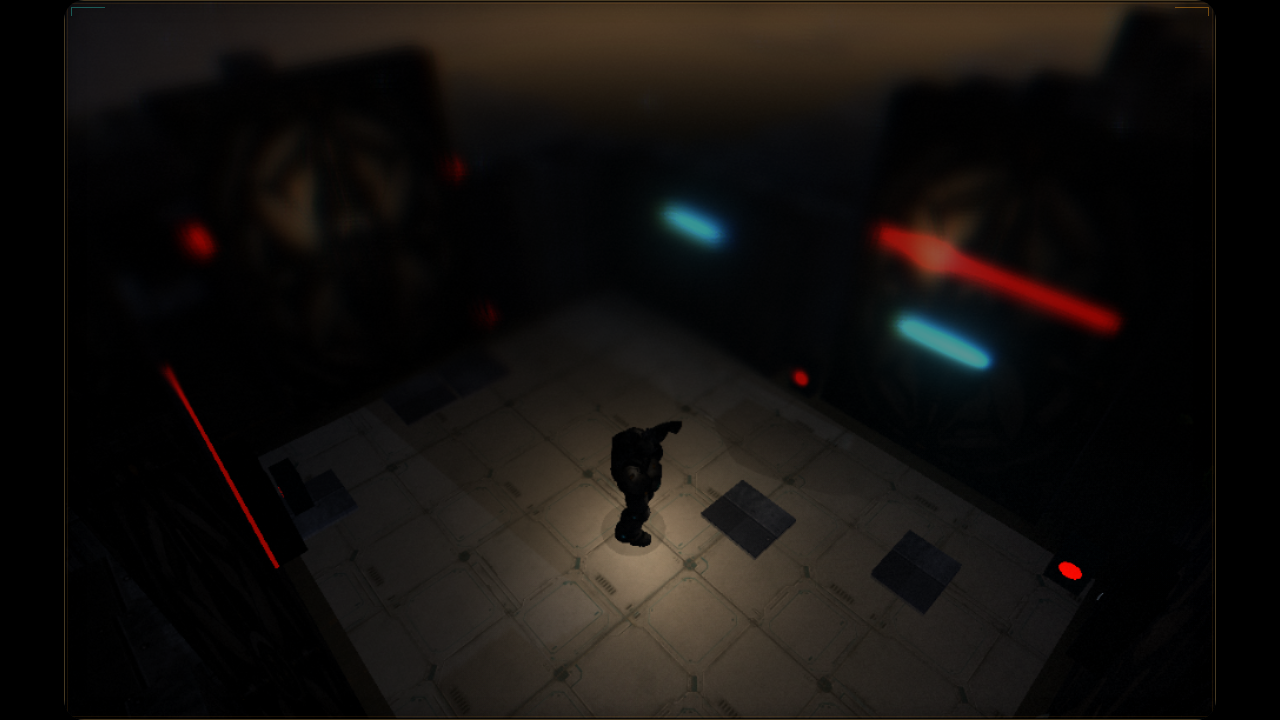
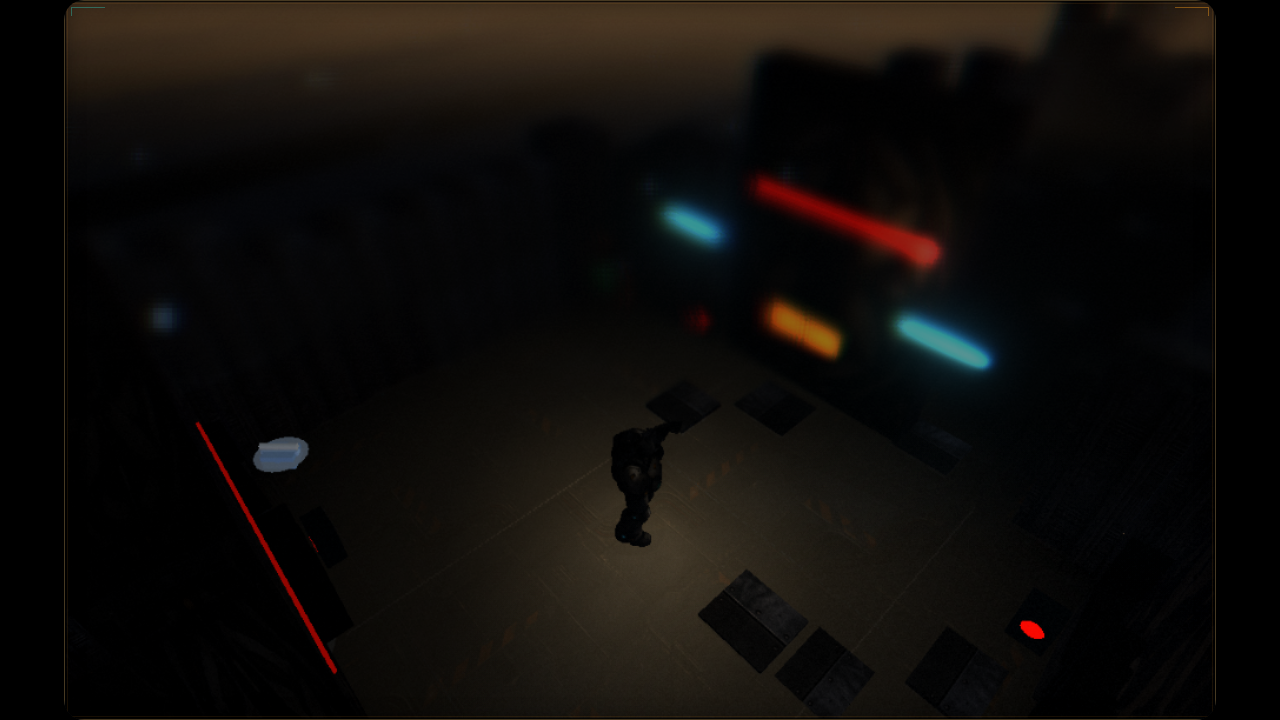
feat(world): identify procedural rooms by role

diff --git a/src/threeGame.js b/src/threeGame.js
@@ -17,6 +17,7 @@ import {
     planRoomBoundaryCells,
     planRoomCutawayCells,
     planRoomPracticalLights,
+    planRoomRoleDisplay,
     ROOM_CUTAWAY_HEIGHT
 } from './roomPresentation.js';
 
@@ -1745,6 +1746,18 @@ export class ThreeGame {
             emissiveIntensity: 0.08,
             metalness: 0.7,
             roughness: 0.34
+        });
+        this.roomRoleDisplayGeometry = new THREE.BoxGeometry(1, 1, 1);
+        this.roomRoleDisplayHousingMaterial = new THREE.MeshStandardMaterial({
+            color: 0x070b0f,
+            emissive: 0x010305,
+            emissiveIntensity: 0.08,
+            metalness: 0.88,
+            roughness: 0.3
+        });
+        this.roomRoleDisplayScreenMaterial = new THREE.MeshBasicMaterial({
+            color: new THREE.Color().setRGB(1.65, 1.65, 1.65),
+            toneMapped: false
         });
 
         this.ventMaterial = new THREE.MeshBasicMaterial({ color: 0x1a1d20 });
@@ -27552,6 +27565,81 @@ export class ThreeGame {
         }
     }
 
+    addRoomRoleDisplays(group, chunkX, chunkY, metadata) {
+        const rooms = metadata?.roomInstances ?? [];
+        if (!group || rooms.length === 0 || !this.roomRoleDisplayGeometry) return;
+        const centerX = chunkX * this.chunkSize + this.chunkSize * 0.5;
+        const centerZ = chunkY * this.chunkSize + this.chunkSize * 0.5;
+        const biome = this.getBiomeKeyForWorldPosition(centerX, centerZ);
+        const housings = [];
+        const screens = [];
+        const displayFamilies = new Set();
+        const rotation = new THREE.Quaternion();
+
+        for (const room of rooms) {
+            const plan = planRoomRoleDisplay(room, { biome });
+            if (!plan) continue;
+            displayFamilies.add(plan.family);
+            rotation.setFromEuler(new THREE.Euler(0, plan.rotationY, 0));
+            const worldX = chunkX * this.chunkSize + plan.x;
+            const worldZ = chunkY * this.chunkSize + plan.z;
+            housings.push(new THREE.Matrix4().compose(
+                new THREE.Vector3(worldX, 1.42, worldZ),
+                rotation,
+                new THREE.Vector3(plan.width, plan.height, 0.11)
+            ));
+            for (const screen of plan.screens) {
+                const screenX = worldX + (plan.wall === 'north' ? screen.offset : 0.065);
+                const screenZ = worldZ + (plan.wall === 'west' ? screen.offset : 0.065);
+                screens.push({
+                    color: screen.color,
+                    matrix: new THREE.Matrix4().compose(
+                        new THREE.Vector3(screenX, 1.42, screenZ),
+                        rotation,
+                        new THREE.Vector3(screen.width, screen.height, 0.035)
+                    )
+                });
+            }
+        }
+
+        if (housings.length > 0) {
+            const housingPool = new THREE.InstancedMesh(
+                this.roomRoleDisplayGeometry,
+                this.roomRoleDisplayHousingMaterial,
+                housings.length
+            );
+            housings.forEach((matrix, index) => housingPool.setMatrixAt(index, matrix));
+            housingPool.instanceMatrix.needsUpdate = true;
+            housingPool.receiveShadow = true;
+            housingPool.userData = {
+                isRoomRoleDisplayHousingPool: true,
+                housingCount: housings.length,
+                displayFamilies: [...displayFamilies]
+            };
+            group.add(housingPool);
+        }
+
+        if (screens.length > 0) {
+            const screenPool = new THREE.InstancedMesh(
+                this.roomRoleDisplayGeometry,
+                this.roomRoleDisplayScreenMaterial,
+                screens.length
+            );
+            screens.forEach((screen, index) => {
+                screenPool.setMatrixAt(index, screen.matrix);
+                screenPool.setColorAt(index, new THREE.Color(screen.color));
+            });
+            screenPool.instanceMatrix.needsUpdate = true;
+            screenPool.instanceColor.needsUpdate = true;
+            screenPool.userData = {
+                isRoomRoleDisplayScreenPool: true,
+                screenCount: screens.length,
+                displayFamilies: [...displayFamilies]
+            };
+            group.add(screenPool);
+        }
+    }
+
     addRoomSurfaceOverlays(group, chunkX, chunkY, metadata) {
         const rooms = metadata?.roomInstances ?? [];
         if (rooms.length === 0) return;
@@ -28879,6 +28967,12 @@ export class ThreeGame {
             this.wfcMetadataCache?.get(`${chunkX},${chunkY}`)
         );
         this.addRoomPracticalLighting(
+            group,
+            chunkX,
+            chunkY,
+            this.wfcMetadataCache?.get(`${chunkX},${chunkY}`)
+        );
+        this.addRoomRoleDisplays(
             group,
             chunkX,
             chunkY,
@@ -39432,6 +39526,9 @@ export class ThreeGame {
         for (const material of this.roomLightFixtureMaterials?.values?.() ?? []) material.dispose?.();
         this.roomCutawayCapGeometry?.dispose();
         this.roomCutawayCapMaterial?.dispose();
+        this.roomRoleDisplayGeometry?.dispose();
+        this.roomRoleDisplayHousingMaterial?.dispose();
+        this.roomRoleDisplayScreenMaterial?.dispose();
         this.doorPanelGeometry?.dispose();
         this.doorPanelMaterial?.dispose();
         this.doorPortalHeaderGeometry?.dispose();

diff --git a/src/roomPresentation.js b/src/roomPresentation.js
@@ -4,6 +4,21 @@ const ROOM_LIGHT_PALETTES = Object.freeze({
     bio: Object.freeze({ color: 0x63e6a7, intensity: 1.2, distance: 6.5 })
 });
 
+const ROOM_ROLE_DISPLAY_PROFILES = Object.freeze({
+    generic: Object.freeze({ family: 'operations', color: 0x71cddf, width: 1.0, height: 0.42, segments: 1 }),
+    utility: Object.freeze({ family: 'engineering', color: 0xffb347, width: 1.16, height: 0.38, segments: 2 }),
+    engineering: Object.freeze({ family: 'engineering', color: 0xffb347, width: 1.16, height: 0.38, segments: 2 }),
+    objective: Object.freeze({ family: 'engineering', color: 0xffb347, width: 1.16, height: 0.38, segments: 2 }),
+    medical: Object.freeze({ family: 'medical', color: 0x7de6ff, width: 1.28, height: 0.34, segments: 3 }),
+    'cryo-lab': Object.freeze({ family: 'cryo', color: 0xbbefff, width: 1.34, height: 0.3, segments: 3 }),
+    security: Object.freeze({ family: 'security', color: 0xff5147, width: 0.94, height: 0.5, segments: 2 }),
+    storage: Object.freeze({ family: 'logistics', color: 0xffd27a, width: 0.84, height: 0.34, segments: 1 }),
+    reward: Object.freeze({ family: 'logistics', color: 0xffd27a, width: 0.84, height: 0.34, segments: 1 }),
+    camp: Object.freeze({ family: 'logistics', color: 0xffd27a, width: 0.84, height: 0.34, segments: 1 }),
+    nest: Object.freeze({ family: 'bio', color: 0x63e6a7, width: 0.62, height: 0.74, segments: 1 }),
+    hive: Object.freeze({ family: 'bio', color: 0x63e6a7, width: 0.62, height: 0.74, segments: 1 })
+});
+
 function boundsForCells(cells) {
     if (!cells?.length) return null;
     let minX = Infinity;
@@ -74,6 +89,52 @@ export function planRoomPracticalLights(room, { biome = 'active' } = {}) {
             intensity: palette.intensity,
             distance: palette.distance
         }
+    };
+}
+
+/**
+ * Plan a compact role-identification console against a room's north or west
+ * back wall. Profile proportions and screen segmentation supplement colour so
+ * the room grammar remains readable under colour-vision filters.
+ */
+export function planRoomRoleDisplay(room, { biome = 'active' } = {}) {
+    const cells = room?.interior ?? [];
+    const bounds = boundsForCells(cells);
+    if (!bounds) return null;
+
+    const fallbackRole = biome === 'cryo' ? 'cryo-lab' : biome === 'bio' ? 'hive' : 'generic';
+    const role = ROOM_ROLE_DISPLAY_PROFILES[room?.role] ? room.role : fallbackRole;
+    const profile = ROOM_ROLE_DISPLAY_PROFILES[role];
+    const width = bounds.maxX - bounds.minX + 1;
+    const depth = bounds.maxY - bounds.minY + 1;
+    const wall = width >= depth ? 'north' : 'west';
+    const centerX = (bounds.minX + bounds.maxX) / 2;
+    const centerY = (bounds.minY + bounds.maxY) / 2;
+    const anchorCell = closestCell(
+        cells,
+        wall === 'north' ? centerX : bounds.minX,
+        wall === 'north' ? bounds.minY : centerY
+    );
+    const gap = 0.055;
+    const segmentWidth = (profile.width - gap * (profile.segments - 1)) / profile.segments;
+    const startOffset = -((profile.segments - 1) * (segmentWidth + gap)) / 2;
+    const screens = Array.from({ length: profile.segments }, (_, index) => ({
+        offset: startOffset + index * (segmentWidth + gap),
+        width: segmentWidth,
+        height: profile.height,
+        color: profile.color
+    }));
+
+    return {
+        role,
+        family: profile.family,
+        wall,
+        x: wall === 'west' ? bounds.minX - 0.46 : anchorCell.x,
+        z: wall === 'north' ? bounds.minY - 0.46 : anchorCell.y,
+        rotationY: wall === 'west' ? Math.PI / 2 : 0,
+        width: profile.width + 0.16,
+        height: profile.height + 0.16,
+        screens
     };
 }
 

diff --git a/tests/e2e/room-presentation-visual.spec.js b/tests/e2e/room-presentation-visual.spec.js
@@ -53,8 +53,13 @@ test('procedural bunker rooms mount practical lights and foreground cutaways', a
         let capCount = 0;
         let portalHeaderCount = 0;
         let sourceCount = 0;
+        let roleDisplayHousingCount = 0;
+        let roleDisplayScreenCount = 0;
+        let maxRoleDisplayPoolsPerChunk = 0;
+        const roleDisplayFamilies = new Set();
         for (const group of game.chunkMeshes.values()) {
             if (!group.visible) continue;
+            let roleDisplayPoolsInChunk = 0;
             group.traverse((object) => {
                 if (object.userData?.isRoomPracticalLightFixturePool) {
                     fixtureCount += object.userData.fixtureCount ?? object.count ?? 0;
@@ -69,7 +74,17 @@ test('procedural bunker rooms mount practical lights and foreground cutaways', a
                     portalHeaderCount += object.userData.headerCount ?? object.count ?? 0;
                 }
                 if (object.userData?.isRoomPracticalLightSource) sourceCount += 1;
+                if (object.userData?.isRoomRoleDisplayHousingPool) {
+                    roleDisplayHousingCount += object.userData.housingCount ?? object.count ?? 0;
+                    roleDisplayPoolsInChunk += 1;
+                    for (const family of object.userData.displayFamilies ?? []) roleDisplayFamilies.add(family);
+                }
+                if (object.userData?.isRoomRoleDisplayScreenPool) {
+                    roleDisplayScreenCount += object.userData.screenCount ?? object.count ?? 0;
+                    roleDisplayPoolsInChunk += 1;
+                }
             });
+            maxRoleDisplayPoolsPerChunk = Math.max(maxRoleDisplayPoolsPerChunk, roleDisplayPoolsInChunk);
         }
         const directVisibleRoomSources = game.envDynamicLights.filter((light) => (
             (light.userData?.isRoomPracticalLightSource || light.userData?.isPortalPracticalLightSource)
@@ -93,6 +108,10 @@ test('procedural bunker rooms mount practical lights and foreground cutaways', a
             capCount,
             portalHeaderCount,
             sourceCount,
+            roleDisplayHousingCount,
+            roleDisplayScreenCount,
+            maxRoleDisplayPoolsPerChunk,
+            roleDisplayFamilies: [...roleDisplayFamilies],
             directVisibleRoomSources
         };
     });
@@ -102,6 +121,10 @@ test('procedural bunker rooms mount practical lights and foreground cutaways', a
     expect(presentation.capCount).toBeGreaterThan(0);
     expect(presentation.portalHeaderCount).toBeGreaterThan(0);
     expect(presentation.sourceCount).toBeGreaterThan(0);
+    expect(presentation.roleDisplayHousingCount).toBeGreaterThan(0);
+    expect(presentation.roleDisplayScreenCount).toBeGreaterThanOrEqual(presentation.roleDisplayHousingCount);
+    expect(presentation.maxRoleDisplayPoolsPerChunk).toBeLessThanOrEqual(2);
+    expect(presentation.roleDisplayFamilies.length).toBeGreaterThan(0);
     expect(presentation.directVisibleRoomSources).toBe(0);
     await page.screenshot({
         path: 'docs/reports/assets/gameplay-room-presentation-default-2026-09-30.png'

diff --git a/src/roomPresentation.test.js b/src/roomPresentation.test.js
@@ -6,6 +6,7 @@ import {
     planRoomBoundaryCells,
     planRoomCutawayCells,
     planRoomPracticalLights,
+    planRoomRoleDisplay,
     ROOM_CUTAWAY_HEIGHT
 } from './roomPresentation.js';
 import { collapseChunkLattice, extractChunkWfcMetadata } from './wfcGenerator.js';
@@ -32,6 +33,34 @@ describe('room presentation planning', () => {
         expect(plan.fixtures).toHaveLength(1);
         expect(plan.fixtures[0].color).toBe(0x63e6a7);
         expect(plan.proxy.color).toBe(0x63e6a7);
+    });
+
+    it('mounts deterministic role displays on a room back wall', () => {
+        const sample = { ...room(6, 3), role: 'medical' };
+        const first = planRoomRoleDisplay(sample);
+        const second = planRoomRoleDisplay(sample);
+        expect(first).toEqual(second);
+        expect(first).toMatchObject({ role: 'medical', family: 'medical', wall: 'north', z: 0.54 });
+        expect(first.screens).toHaveLength(3);
+        expect(first.screens.every((screen) => screen.color === 0x7de6ff)).toBe(true);
+    });
+
+    it('uses proportions and segmentation as well as colour to identify room roles', () => {
+        const security = planRoomRoleDisplay({ ...room(3, 6), role: 'security' });
+        const bio = planRoomRoleDisplay({ ...room(3, 6), role: 'hive' });
+        expect(security).toMatchObject({ family: 'security', wall: 'west', x: 0.54, rotationY: Math.PI / 2 });
+        expect(security.screens).toHaveLength(2);
+        expect(bio.family).toBe('bio');
+        expect(bio.screens).toHaveLength(1);
+        expect(bio.height).toBeGreaterThan(security.height);
+    });
+
+    it('falls back to biome-specific displays for unknown generated roles', () => {
+        expect(planRoomRoleDisplay({ ...room(3, 3), role: 'unknown' }, { biome: 'cryo' })).toMatchObject({
+            role: 'cryo-lab',
+            family: 'cryo'
+        });
+        expect(planRoomRoleDisplay(null)).toBeNull();
     });
 
     it('identifies only the east and south foreground walls for the default camera', () => {

diff --git a/src/threeGame.visualOverhaul.test.js b/src/threeGame.visualOverhaul.test.js
@@ -29,6 +29,13 @@ describe('Visual Overhaul Phase B & D (Surface Depth & Grade)', () => {
             expect(threeGameSource).toContain('roughnessFactor = mix(roughnessFactor, 0.1, hbRoomWetRoughness)');
         });
 
+        it('batches architectural role displays into housing and emissive screen pools', () => {
+            expect(threeGameSource).toContain('isRoomRoleDisplayHousingPool: true');
+            expect(threeGameSource).toContain('isRoomRoleDisplayScreenPool: true');
+            expect(threeGameSource).toContain('screenPool.setColorAt(index, new THREE.Color(screen.color))');
+            expect(threeGameSource).toContain('displayFamilies: [...displayFamilies]');
+        });
+
         it('injects vascular pulsation into floor emissive radiance', () => {
             expect(threeGameSource).toContain('vec3 bioVeinColor = vec3(1.0, 0.44, 0.08)');
             expect(threeGameSource).toContain('totalEmissiveRadiance += vec3(0.0, 0.7, 0.85) * glowIntensity * 1.35 + bioVeinColor');

diff --git a/docs/planning/gameplay-vs-theory-comparison-and-plan.md b/docs/planning/gameplay-vs-theory-comparison-and-plan.md
@@ -85,6 +85,8 @@ Acceptance: a player can distinguish ordinary room light, a route portal and a l
 
 Instance a limited kit: hazard sill, cable run, ceiling rib, wall monitor and occasional drip. Select pieces deterministically from room role/theme so medical, utility, security, cryo and bio spaces read differently.
 
+Status: **Phase 6A implemented.** Every authored room now receives a deterministic back-wall display. Medical uses a three-segment cyan diagnostic strip, engineering a two-segment amber console, security a compact paired red panel, logistics a warm single screen, cryo a pale-blue triple strip and bio a tall green organic readout. Proportions and segmentation carry the distinction when colour alone cannot. Housings and screens are two instanced pools per chunk, with no new dynamic lights. The remaining Phase 6B work is the sparse hazard-sill/cable/rib/drip rhythm and should reuse the same role plan rather than create free-scattered props.
+
 Acceptance: a screenshot without HUD identifies at least three room roles, while the normal gameplay view remains below the existing draw-call budget.
 
 ## Verification matrix
@@ -96,6 +98,7 @@ Acceptance: a screenshot without HUD identifies at least three room roles, while
 | Cutaway selection | Unit tests cover all four quadrants, the 0.82 m contract, restoration and destroyed-wall persistence | Controller-driven rotation on Deck and PC |
 | Wet floors | Shader-source regression verifies world-space mask, darkening and roughness response; browser test compiles the material on WebGL | Reflection/readability check on Deck and PC panels |
 | Integrated world | Browser test requires fixtures, caps, portal headers and pooled sources in real generated chunks; it rotates 180° and proves cut/restore with stable instance counts | Packaged-build capture and controller playthrough |
+| Role displays | Unit tests cover role palette, proportions, segmentation, wall choice and deterministic fallback; browser test requires housing and screen pools in generated rooms | Confirm at least three room families remain recognizable on Deck at gameplay scale |
 
 ## Explicit non-goals for this pass
 
